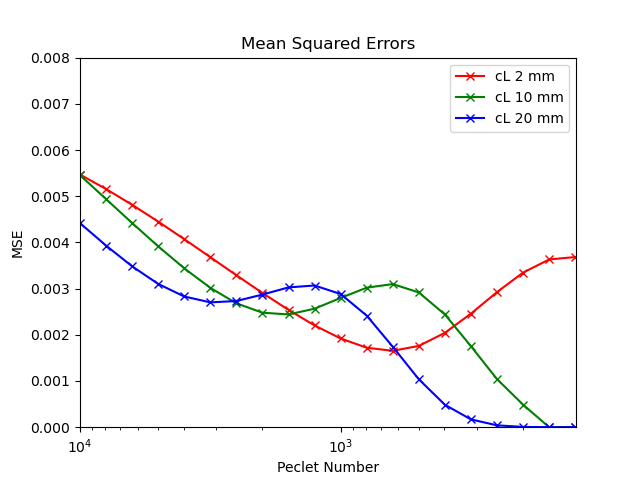
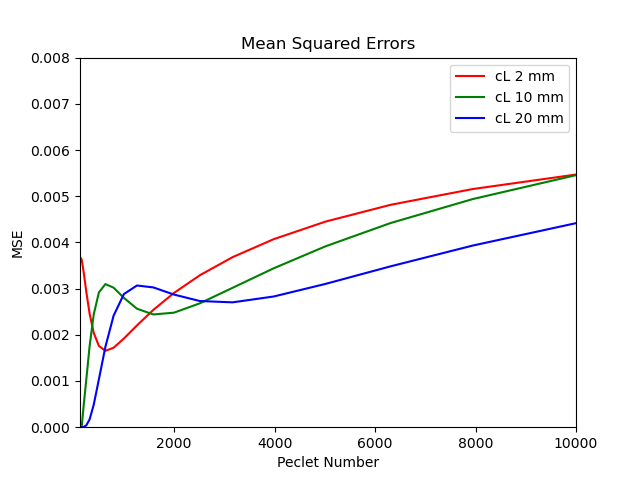
Add new image

diff --git a/DiffusiveMixing/H-mixer/L2-Plot-Paper.py b/DiffusiveMixing/H-mixer/L2-Plot-Paper.py
@@ -88,12 +88,12 @@ def plotRealErrors(angles, channelLengths, velocities, diffusivities):
     plt.title("Mean Squared Errors")
     plt.xlabel('Peclet Number')
     plt.ylabel('MSE')
-    plt.xlim(1e4, 125)
+    plt.xlim(125, 1e4)
     plt.ylim(0, 0.008)
-    plt.xscale("log")
-    plt.plot(np.concatenate((xPoints[0][0][0][:], xPoints[0][0][1][:])), np.concatenate((yPoints[0][0][0][:], yPoints[0][0][1][:])), '-rx', label='cL 2 mm')
-    plt.plot(np.concatenate((xPoints[1][0][0][:], xPoints[1][0][1][:])), np.concatenate((yPoints[1][0][0][:], yPoints[1][0][1][:])), '-gx', label='cL 10 mm')
-    plt.plot(np.concatenate((xPoints[2][0][0][:], xPoints[2][0][1][:])), np.concatenate((yPoints[2][0][0][:], yPoints[2][0][1][:])), '-bx', label='cL 20 mm')
+    #plt.xscale("log")
+    plt.plot(np.concatenate((xPoints[0][0][0][:], xPoints[0][0][1][:])), np.concatenate((yPoints[0][0][0][:], yPoints[0][0][1][:])), 'r-', label='cL 2 mm')
+    plt.plot(np.concatenate((xPoints[1][0][0][:], xPoints[1][0][1][:])), np.concatenate((yPoints[1][0][0][:], yPoints[1][0][1][:])), 'g-', label='cL 10 mm')
+    plt.plot(np.concatenate((xPoints[2][0][0][:], xPoints[2][0][1][:])), np.concatenate((yPoints[2][0][0][:], yPoints[2][0][1][:])), 'b-', label='cL 20 mm')
     plt.legend()
     plt.savefig("MSE_27deg_Pe.png", dpi=100)
     #plt.show()
